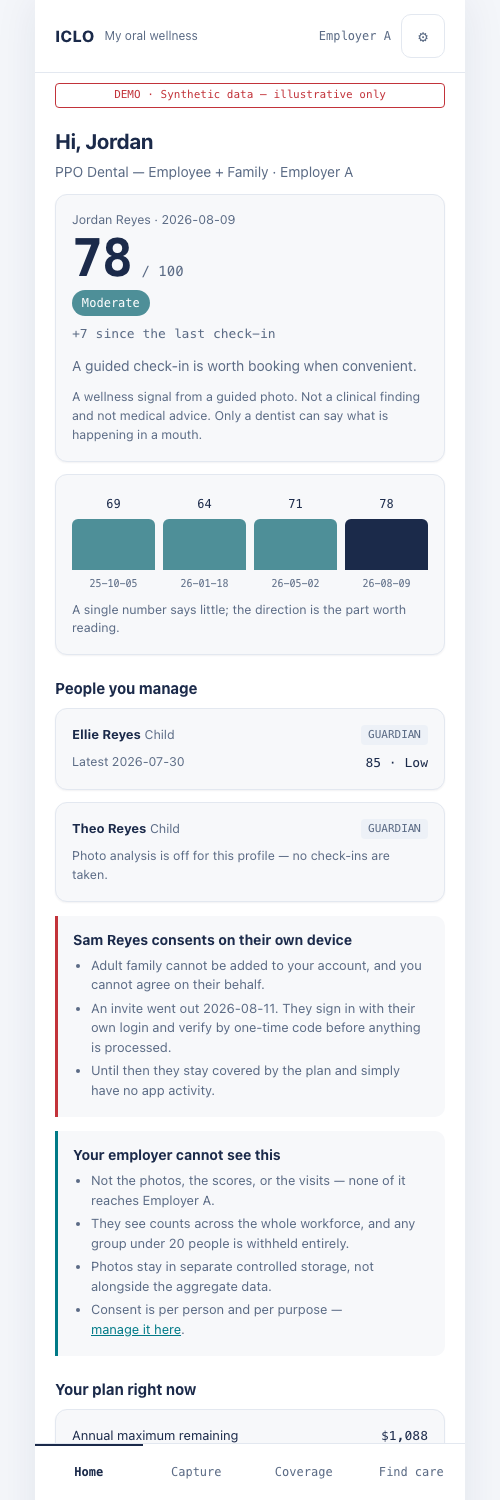
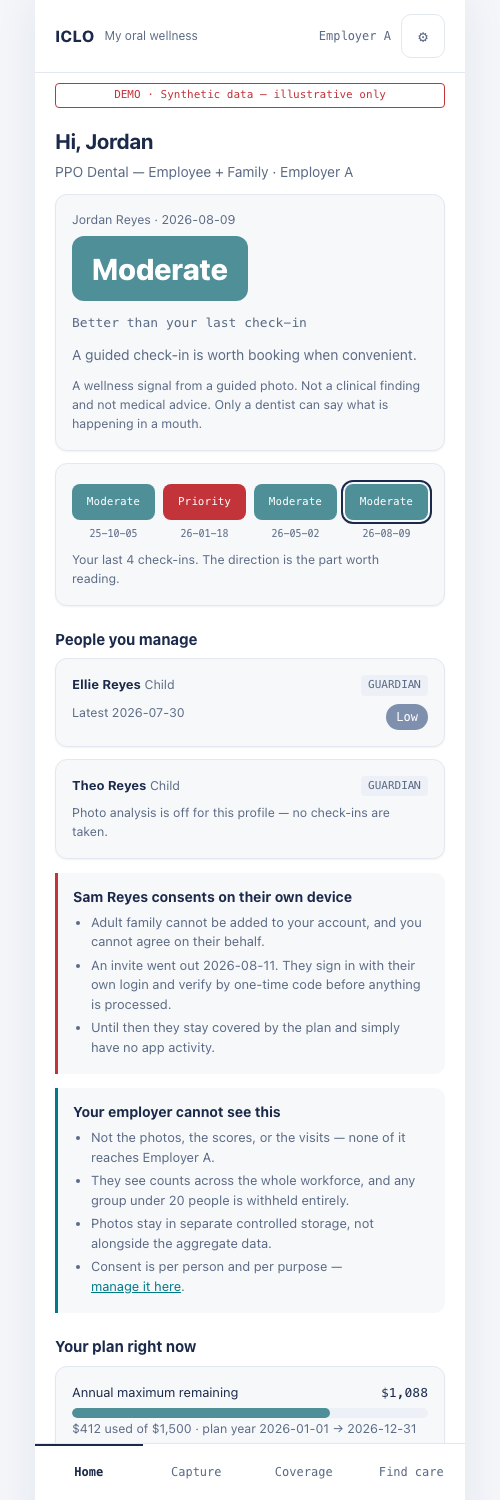
fix: no number goes to the member until FDA clearance
The canon said the employee app shows a 0-100 score and app.html showed
one, 52px, the largest thing on the screen. That was mine — I took an
early "show an individual score" instruction, wrote it into contracts
surfaces on 08-14 as settled, and built to it. It is not what the product
does.

An image-derived figure handed to a person as their oral status reads
outside the general-wellness boundary. Bands and direction stay inside
it. The rule has a condition and an end, so the canon records both rather
than just the prohibition: shown_to_member false, until FDA clearance,
and a note that reopening it then is a regulatory judgement and not a UI
one.

The band is the result now, and change is a sentence — "Better than your
last check-in" — with a three-point threshold below which it says steady
rather than inventing movement. The score is still computed, because
bands and direction need it. It is never rendered.

The history strip was the subtle one. Bars scaled to the score put the
hidden number straight back on screen: a taller bar is a higher figure
read off a picture. It is bands over time now. A scale position with the
numerals stripped is the same number in disguise, and the canon says so
explicitly so nobody rebuilds it that way.

PRD carries both rows — the 08-14 settlement struck through, and the new
one naming both surfaces and the condition. A future reader needs to see
that this reversed, not just where it landed.
[…]

diff --git a/app.html b/app.html
@@ -44,10 +44,10 @@
   .card{background:var(--field);border:1px solid var(--line);border-radius:12px;
         padding:16px;margin-bottom:12px;box-shadow:var(--shadow)}
 
-  /* Score. A number, deliberately, and never a clinical claim next to it. */
-  .score{display:flex;align-items:baseline;gap:10px;margin:2px 0 6px}
-  .score b{font-size:52px;font-weight:800;line-height:1;font-family:var(--mono);letter-spacing:-.03em}
-  .score .of{font-size:14px;color:var(--ink2);font-family:var(--mono)}
+  /* The band is the result. There is no number on this screen by design —
+     see the comment above direction() in the script. */
+  .bandhero{display:inline-block;font-size:30px;font-weight:800;letter-spacing:-.01em;
+            color:#fff;border-radius:12px;padding:10px 20px;margin:6px 0 4px}
   .bandtag{display:inline-block;font-family:var(--mono);font-size:12px;
            padding:4px 10px;border-radius:999px;color:#fff}
   .b-low{background:var(--barLow)} .b-mod{background:var(--barMid)} .b-pri{background:var(--coral)}
@@ -106,9 +106,10 @@
   .hist{display:flex;align-items:flex-end;gap:8px;height:96px;margin:4px 0 10px}
   .hist .col{flex:1;display:flex;flex-direction:column;justify-content:flex-end;
              align-items:center;gap:6px;height:100%}
-  .hist .bar{width:100%;border-radius:6px 6px 0 0;background:var(--barMid)}
-  .hist .col.now .bar{background:var(--strong)}
-  .hist .n{font-family:var(--mono);font-size:12px}
+  .hist{height:auto}
+  .hist .chip{width:100%;text-align:center;color:#fff;border-radius:8px;
+              padding:10px 4px;font-family:var(--mono);font-size:11px}
+  .hist .col.now .chip{outline:2px solid var(--strong);outline-offset:2px}
   .hist .d{font-family:var(--mono);font-size:10px;color:var(--ink2)}
 
   .srow{display:flex;align-items:flex-start;gap:12px;padding:12px 0;border-bottom:1px solid var(--line)}
@@ -195,6 +196,19 @@ const PARTIES = [
 ];
 
 const BAND = s => s >= 80 ? "Low" : s >= 68 ? "Moderate" : "Priority";
+
+// The underlying figure is computed — bands and direction need it — and never
+// rendered. An image-derived number presented to a person as their oral status
+// reads outside the general-wellness boundary, so it stays internal until FDA
+// clearance. contracts surfaces.employee_app.numeric_score holds the condition.
+// A scale position with the numerals removed is the same number in disguise and
+// is not an escape from this.
+function direction(prev, now){
+  const step = 3;                       // below this, call it steady rather than movement
+  if (now - prev >= step)  return "Better than your last check-in";
+  if (prev - now >= step)  return "Some ground lost since your last check-in";
+  return "About the same as your last check-in";
+}
 const ADVICE = {
   Low:"Keep the current routine.",
   Moderate:"A guided check-in is worth booking when convenient.",
@@ -238,12 +252,10 @@ function scoreCard(p){
     <p style="margin:8px 0 0">No check-in yet.</p></div>`;
   const b = BAND(l.score);
   const prev = p.history.length > 1 ? p.history[p.history.length-2].score : null;
-  const d = prev === null ? null : l.score - prev;
   return `<div class="card">
     <div class="muted">${esc(p.name)} · ${esc(l.on)}</div>
-    <div class="score"><b>${l.score}</b><span class="of">/ 100</span></div>
-    <span class="bandtag ${CLS[b]}">${esc(b)}</span>
-    ${d === null ? "" : `<div class="delta">${d>0?"+":""}${d} since the last check-in</div>`}
+    <div class="bandhero ${CLS[b]}">${esc(b)}</div>
+    ${prev === null ? "" : `<div class="delta">${esc(direction(prev, l.score))}</div>`}
     <p style="margin-top:12px">${esc(ADVICE[b])}</p>
     <p class="muted" style="margin:0">A wellness signal from a guided photo. Not a clinical finding
     and not medical advice. Only a dentist can say what is happening in a mouth.</p>
@@ -252,14 +264,15 @@ function scoreCard(p){
 
 function historyStrip(p){
   if (p.history.length < 2) return "";
-  const hi = Math.max(...p.history.map(x=>x.score));
-  return `<div class="card"><div class="hist">${p.history.map((x,i)=>`
-    <div class="col${i===p.history.length-1?" now":""}">
-      <span class="n">${x.score}</span>
-      <div class="bar" style="height:${Math.round((x.score/hi)*100)}%"></div>
+  // Bands over time, not bars over a scale. Heights carried the hidden number
+  // back onto the screen — a taller bar is a higher score read off a picture.
+  return `<div class="card"><div class="hist">${p.history.map((x,i)=>{
+    const b = BAND(x.score);
+    return `<div class="col${i===p.history.length-1?" now":""}">
+      <div class="chip ${CLS[b]}">${esc(b)}</div>
       <span class="d">${esc(x.on.slice(2))}</span>
-    </div>`).join("")}</div>
-    <div class="muted">A single number says little; the direction is the part worth reading.</div>
+    </div>`;}).join("")}</div>
+    <div class="muted">Your last ${p.history.length} check-ins. The direction is the part worth reading.</div>
   </div>`;
 }
 
@@ -283,7 +296,7 @@ const VIEWS = {
           </div>
           ${l ? `<div class="rowlab" style="margin-top:8px">
                    <span class="muted">Latest ${esc(l.on)}</span>
-                   <span class="v">${l.score} · ${esc(BAND(l.score))}</span></div>`
+                   <span class="bandtag ${CLS[BAND(l.score)]}">${esc(BAND(l.score))}</span></div>`
               : `<div class="muted" style="margin-top:8px">${p.consents && !p.consents.photo
                    ? "Photo analysis is off for this profile — no check-ins are taken."
                    : "No check-in yet."}</div>`}

diff --git a/employer-dashboard-poc/docs/PRD.md b/employer-dashboard-poc/docs/PRD.md
@@ -246,9 +246,10 @@ quietly enjoyed: the fastest way to have a privacy incident at a booth was to ha
 | Red line | Enforcement |
 |---|---|
 | Forbidden terms: `diagnos*, cavit*, caries, decay, gingivit*, periodont*, abscess, lesion`; signal label "Review" banned (use "Priority") | `scripts/check-forbidden-terms.sh` |
-| No individual-level screens **in employer views**; no mock person profiles there | PR review. Scoped 2026-08-15: `app.html` is a member's own surface and shows their own result and their profiles by design (`contracts` `surfaces`). Unscoped, this line forbade the employee app |
+| No individual-level screens **in employer views**; no mock person profiles there | PR review. Scoped 2026-08-15: `app.html` is a member's own surface and shows their own result and their profiles by design (`contracts` `surfaces`) |
+| **Band, never a number — on both surfaces, until FDA clearance** | PR review. Reversed 2026-08-16: the app briefly showed a 0-100 score. An image-derived figure presented to a person as their oral status reads outside the general-wellness boundary. The score is still computed; it is not rendered |
 | Cells with `n < 20` never show values | `test_suppression.py` |
-| **Band, never a numeric score — in employer views** | PR review. Settled 2026-08-14: the employee app (`app.html`) shows the member their own 0-100 score; employers still get bands only. `contracts` `surfaces` holds both. Individual scores never roll up |
+| ~~Band, never a numeric score — in employer views~~ | Superseded 2026-08-16 by the row above. The 08-14 settlement had the app showing a 0-100 score; that is reversed |
 | Every figure derives from one source of truth | `test_single_source.py`, rewritten when A3 changes the source |
 | Every view labeled "Synthetic data — illustrative only" | screenshot test |
 | No AI-slop visual patterns | kill-ai-slop Mode B gate before `/ship` |
